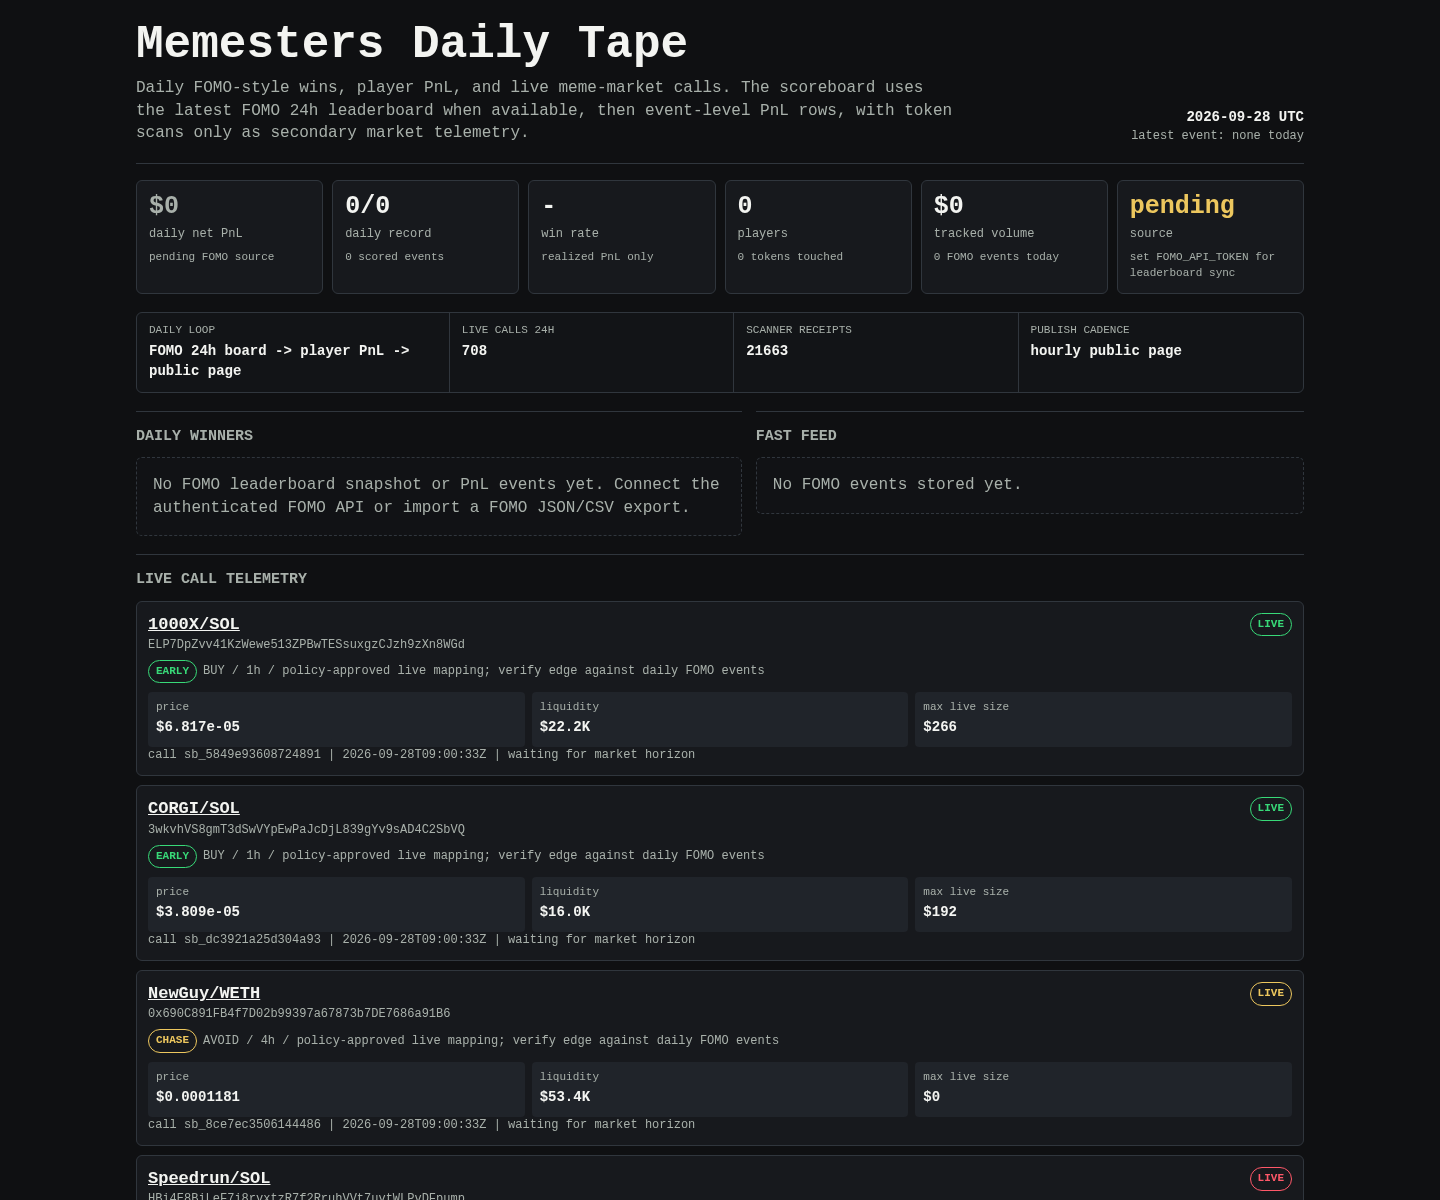
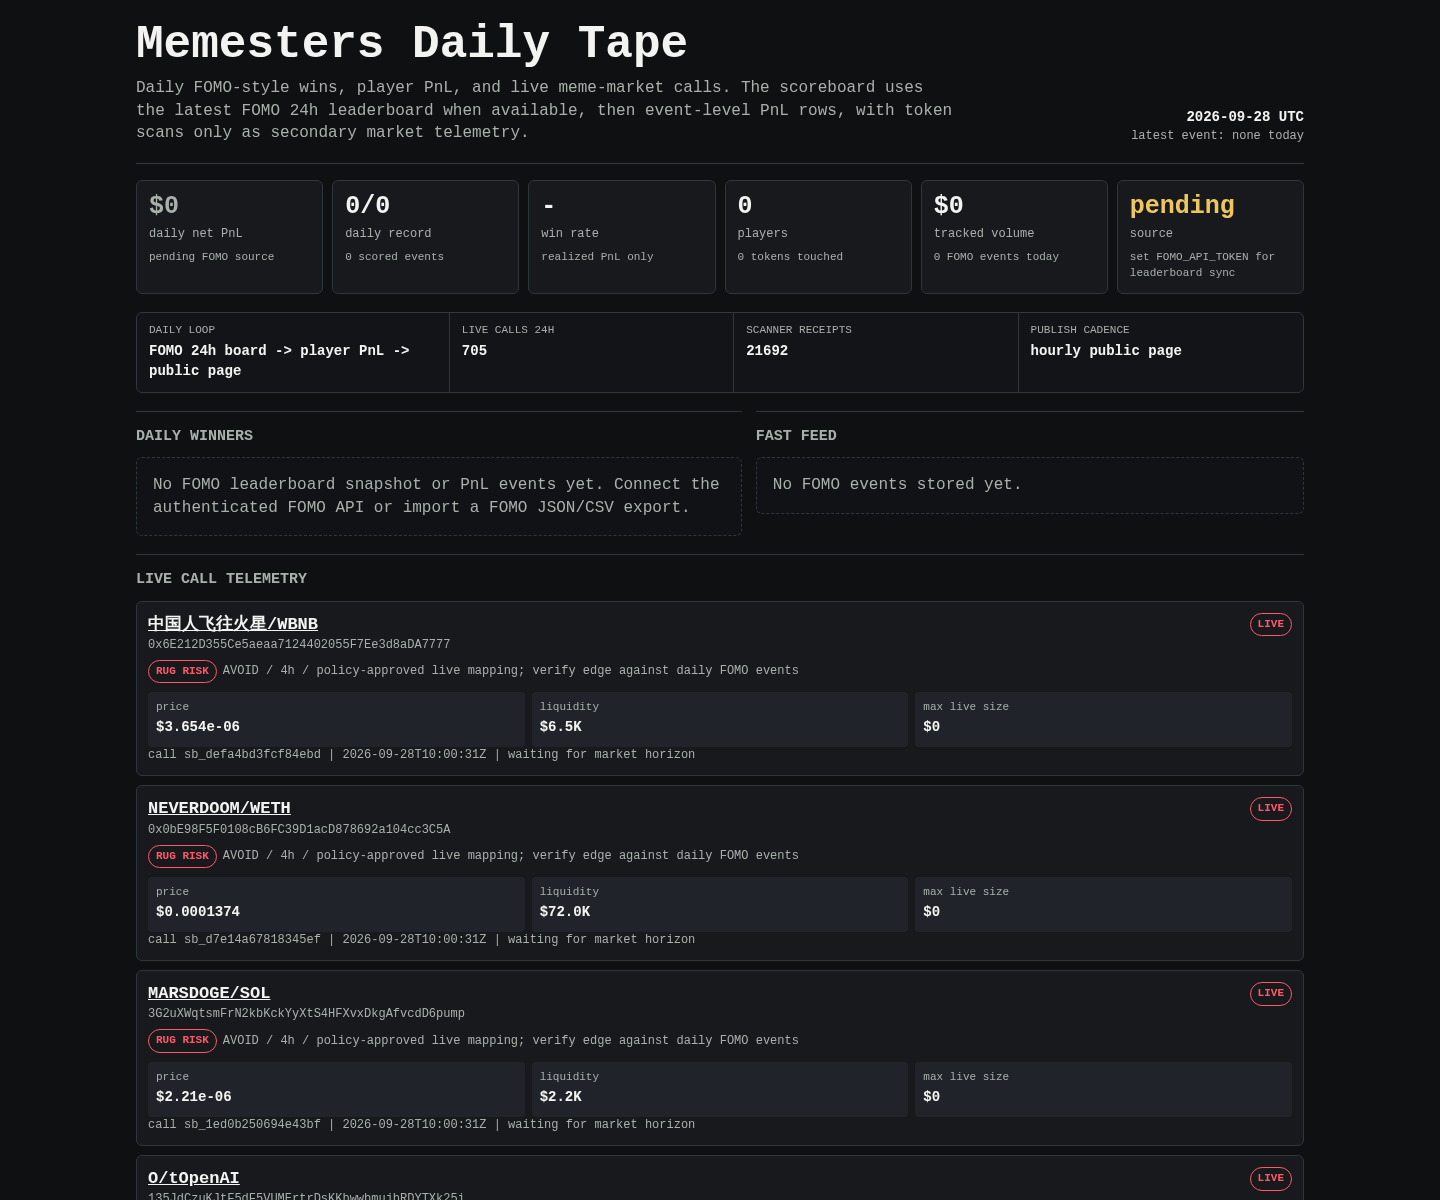
Update Memesters scoreboard

diff --git a/memesters/index.html b/memesters/index.html
@@ -149,8 +149,8 @@
 
     <div class="rail" aria-label="live operating loop">
       <div><span>daily loop</span><b>FOMO 24h board -> player PnL -> public page</b></div>
-      <div><span>live calls 24h</span><b>708</b></div>
-      <div><span>scanner receipts</span><b>21663</b></div>
+      <div><span>live calls 24h</span><b>705</b></div>
+      <div><span>scanner receipts</span><b>21692</b></div>
       <div><span>publish cadence</span><b>hourly public page</b></div>
     </div>
 
@@ -171,29 +171,92 @@
     <article class="receipt">
       <div class="receipt-head">
         <div>
-          <div class="pair"><a href="https://dexscreener.com/solana/7infgk8yqcei3nncvy8rgyvwrgb4ifgtutqfkddmpf9g">1000X/SOL</a></div>
-          <div class="addr">ELP7DpZvv41KzWewe513ZPBwTESsuxgzCJzh9zXn8WGd</div>
+          <div class="pair"><a href="https://dexscreener.com/bsc/0x90f70a63834f488f2f495e2bab244a03bbda12a1">中国人飞往火星/WBNB</a></div>
+          <div class="addr">0x6E212D355Ce5aeaa7124402055F7Ee3d8aDA7777</div>
           <div class="addr policy-line">
-            <span class="badge early">EARLY</span>
-            <span>BUY / 1h / policy-approved live mapping; verify edge against daily FOMO events</span>
+            <span class="badge rug-risk">RUG RISK</span>
+            <span>AVOID / 4h / policy-approved live mapping; verify edge against daily FOMO events</span>
           </div>
         </div>
-        <span class="badge early">LIVE</span>
+        <span class="badge rug-risk">LIVE</span>
       </div>
       <div class="receipt-grid">
-        <div class="kv"><span>price</span><b>$6.817e-05</b></div>
-        <div class="kv"><span>liquidity</span><b>$22.2K</b></div>
-        <div class="kv"><span>max live size</span><b>$266</b></div>
+        <div class="kv"><span>price</span><b>$3.654e-06</b></div>
+        <div class="kv"><span>liquidity</span><b>$6.5K</b></div>
+        <div class="kv"><span>max live size</span><b>$0</b></div>
       </div>
-      <div class="outcomes">call sb_5849e93608724891 | 2026-09-28T09:00:33Z | waiting for market horizon</div>
+      <div class="outcomes">call sb_defa4bd3fcf84ebd | 2026-09-28T10:00:31Z | waiting for market horizon</div>
     </article>
     
 
     <article class="receipt">
       <div class="receipt-head">
         <div>
-          <div class="pair"><a href="https://dexscreener.com/solana/2lmstzzjttyta4k6sdfvxr6evfrtfs5g8oo5elsh7yde">CORGI/SOL</a></div>
-          <div class="addr">3wkvhVS8gmT3dSwVYpEwPaJcDjL839gYv9sAD4C2SbVQ</div>
+          <div class="pair"><a href="https://dexscreener.com/robinhood/0x415868c3654fa4616aaa324231fdb77a21f2dabe">NEVERDOOM/WETH</a></div>
+          <div class="addr">0x0bE98F5F0108cB6FC39D1acD878692a104cc3C5A</div>
+          <div class="addr policy-line">
+            <span class="badge rug-risk">RUG RISK</span>
+            <span>AVOID / 4h / policy-approved live mapping; verify edge against daily FOMO events</span>
+          </div>
+        </div>
+        <span class="badge rug-risk">LIVE</span>
+      </div>
+      <div class="receipt-grid">
+        <div class="kv"><span>price</span><b>$0.0001374</b></div>
+        <div class="kv"><span>liquidity</span><b>$72.0K</b></div>
+        <div class="kv"><span>max live size</span><b>$0</b></div>
+      </div>
+      <div class="outcomes">call sb_d7e14a67818345ef | 2026-09-28T10:00:31Z | waiting for market horizon</div>
+    </article>
+    
+
+    <article class="receipt">
+      <div class="receipt-head">
+        <div>
+          <div class="pair"><a href="https://dexscreener.com/solana/e4ytrchxjtbqapy8pxu3sded3veya7anxckvqbez4vdg">MARSDOGE/SOL</a></div>
+          <div class="addr">3G2uXWqtsmFrN2kbKckYyXtS4HFXvxDkgAfvcdD6pump</div>
+          <div class="addr policy-line">
+            <span class="badge rug-risk">RUG RISK</span>
+            <span>AVOID / 4h / policy-approved live mapping; verify edge against daily FOMO events</span>
+          </div>
+        </div>
+        <span class="badge rug-risk">LIVE</span>
+      </div>
+      <div class="receipt-grid">
+        <div class="kv"><span>price</span><b>$2.21e-06</b></div>
+        <div class="kv"><span>liquidity</span><b>$2.2K</b></div>
+        <div class="kv"><span>max live size</span><b>$0</b></div>
+      </div>
+      <div class="outcomes">call sb_1ed0b250694e43bf | 2026-09-28T10:00:31Z | waiting for market horizon</div>
+    </article>
+    
+
+    <article class="receipt">
+      <div class="receipt-head">
+        <div>
+          <div class="pair"><a href="https://dexscreener.com/solana/2ccxqcqimysggtea3tgv8q2ujiwdanh7xjnhjirbrpeg">O/tOpenAI</a></div>
+          <div class="addr">135JdCzuKJtF5dF5VUMErtrDsKKbwwbmujbRDYTXk25i</div>
+          <div class="addr policy-line">
+            <span class="badge rug-risk">RUG RISK</span>
+            <span>AVOID / 4h / policy-approved live mapping; verify edge against daily FOMO events</span>
+          </div>
+        </div>
+        <span class="badge rug-risk">LIVE</span>
+      </div>
+      <div class="receipt-grid">
+        <div class="kv"><span>price</span><b>$3.61e-06</b></div>
+        <div class="kv"><span>liquidity</span><b>$5.6K</b></div>
+        <div class="kv"><span>max live size</span><b>$0</b></div>
+      </div>
+      <div class="outcomes">call sb_b9c3b10d0dd94d44 | 2026-09-28T10:00:31Z | waiting for market horizon</div>
+    </article>
+    
+
+    <article class="receipt">
+      <div class="receipt-head">
+        <div>
+          <div class="pair"><a href="https://dexscreener.com/solana/le9zr9xofniyw4xv2n3szzdenr68qgmnbhawku8kak7">o/tOpenAI</a></div>
+          <div class="addr">FPT65CmLh8gDJq6nZnpFMSQN7dkGBTchzypfeA4FPrFA</div>
           <div class="addr policy-line">
             <span class="badge early">EARLY</span>
             <span>BUY / 1h / policy-approved live mapping; verify edge against daily FOMO events</span>
@@ -202,11 +265,95 @@
         <span class="badge early">LIVE</span>
       </div>
       <div class="receipt-grid">
-        <div class="kv"><span>price</span><b>$3.809e-05</b></div>
-        <div class="kv"><span>liquidity</span><b>$16.0K</b></div>
-        <div class="kv"><span>max live size</span><b>$192</b></div>
+        <div class="kv"><span>price</span><b>$3.085e-05</b></div>
+        <div class="kv"><span>liquidity</span><b>$16.4K</b></div>
+        <div class="kv"><span>max live size</span><b>$197</b></div>
       </div>
-      <div class="outcomes">call sb_dc3921a25d304a93 | 2026-09-28T09:00:33Z | waiting for market horizon</div>
+      <div class="outcomes">call sb_fd5601d1fad442fa | 2026-09-28T10:00:31Z | waiting for market horizon</div>
+    </article>
+    
+
+    <article class="receipt">
+      <div class="receipt-head">
+        <div>
+          <div class="pair"><a href="https://dexscreener.com/robinhood/0x2478233bc3f3709b0185673e75e456cbd55e847c">Sillydog/WETH</a></div>
+          <div class="addr">0xf013879d37d283102c36ee6734C678CC9fC567F4</div>
+          <div class="addr policy-line">
+            <span class="badge chase">CHASE</span>
+            <span>AVOID / 4h / policy-approved live mapping; verify edge against daily FOMO events</span>
+          </div>
+        </div>
+        <span class="badge chase">LIVE</span>
+      </div>
+      <div class="receipt-grid">
+        <div class="kv"><span>price</span><b>$0.0002354</b></div>
+        <div class="kv"><span>liquidity</span><b>$93.9K</b></div>
+        <div class="kv"><span>max live size</span><b>$0</b></div>
+      </div>
+      <div class="outcomes">call sb_a5b56ba06cf74e42 | 2026-09-28T10:00:31Z | waiting for market horizon</div>
+    </article>
+    
+
+    <article class="receipt">
+      <div class="receipt-head">
+        <div>
+          <div class="pair"><a href="https://dexscreener.com/arc/0x2977af9b7bcc7799e66ddece2e40fb5c4fb29bf8d26ee35d7575bf0fa5d08c58">TROVE/USDC</a></div>
+          <div class="addr">0x0AcE28B6BD6571EB9209b166cBA5f6E257E7B2A9</div>
+          <div class="addr policy-line">
+            <span class="badge early">EARLY</span>
+            <span>BUY / 1h / policy-approved live mapping; verify edge against daily FOMO events</span>
+          </div>
+        </div>
+        <span class="badge early">LIVE</span>
+      </div>
+      <div class="receipt-grid">
+        <div class="kv"><span>price</span><b>$1.572e-05</b></div>
+        <div class="kv"><span>liquidity</span><b>$13.6K</b></div>
+        <div class="kv"><span>max live size</span><b>$163</b></div>
+      </div>
+      <div class="outcomes">call sb_5d4e250d99d14e04 | 2026-09-28T10:00:30Z | waiting for market horizon</div>
+    </article>
+    
+
+    <article class="receipt">
+      <div class="receipt-head">
+        <div>
+          <div class="pair"><a href="https://dexscreener.com/arc/0x9b1b97c596abbeeb563f07125d6f400a425d4935b056a0cc35e59c4c7c7e7b19">AOVI/USDC</a></div>
+          <div class="addr">0x352ccfD6e073a5104e3719Ec7A5b7D2f5D9Eafe3</div>
+          <div class="addr policy-line">
+            <span class="badge chase">CHASE</span>
+            <span>AVOID / 4h / policy-approved live mapping; verify edge against daily FOMO events</span>
+          </div>
+        </div>
+        <span class="badge chase">LIVE</span>
+      </div>
+      <div class="receipt-grid">
+        <div class="kv"><span>price</span><b>$1.497e-05</b></div>
+        <div class="kv"><span>liquidity</span><b>$9.8K</b></div>
+        <div class="kv"><span>max live size</span><b>$0</b></div>
+      </div>
+      <div class="outcomes">call sb_7002d0a76c3b4d5a | 2026-09-28T10:00:30Z | waiting for market horizon</div>
+    </article>
+    
+
+    <article class="receipt">
+      <div class="receipt-head">
+        <div>
+          <div class="pair"><a href="https://dexscreener.com/solana/bsgh1umymjymbydjkxjzarz9xytdtthwawqauzsaktpw">SHORK/SPYx</a></div>
+          <div class="addr">BH2PVkGqyQDUUpAB1pdk75Q2zLh4dyfbfUsXUDvBX2FL</div>
+          <div class="addr policy-line">
+            <span class="badge early">EARLY</span>
+            <span>BUY / 1h / policy-approved live mapping; verify edge against daily FOMO events</span>
+          </div>
+        </div>
+        <span class="badge early">LIVE</span>
+      </div>
+      <div class="receipt-grid">
+        <div class="kv"><span>price</span><b>$7.397e-05</b></div>
+        <div class="kv"><span>liquidity</span><b>$24.8K</b></div>
+        <div class="kv"><span>max live size</span><b>$77</b></div>
+      </div>
+      <div class="outcomes">call sb_906cf4ba831142cf | 2026-09-28T09:45:30Z | waiting for market horizon</div>
     </article>
     
 
@@ -223,158 +370,11 @@
         <span class="badge chase">LIVE</span>
       </div>
       <div class="receipt-grid">
-        <div class="kv"><span>price</span><b>$0.0001181</b></div>
-        <div class="kv"><span>liquidity</span><b>$53.4K</b></div>
+        <div class="kv"><span>price</span><b>$0.0001851</b></div>
+        <div class="kv"><span>liquidity</span><b>$68.7K</b></div>
         <div class="kv"><span>max live size</span><b>$0</b></div>
       </div>
-      <div class="outcomes">call sb_8ce7ec3506144486 | 2026-09-28T09:00:33Z | waiting for market horizon</div>
-    </article>
-    
-
-    <article class="receipt">
-      <div class="receipt-head">
-        <div>
-          <div class="pair"><a href="https://dexscreener.com/solana/hz7x32f1k1hagi6jtvbd9ypfv38ttupg6qf4hr7crfgs">Speedrun/SOL</a></div>
-          <div class="addr">HBi4E8BiLeF7i8rvxtzR7f2RruhVVt7uvtWLPvDFpump</div>
-          <div class="addr policy-line">
-            <span class="badge rug-risk">RUG RISK</span>
-            <span>AVOID / 4h / policy-approved live mapping; verify edge against daily FOMO events</span>
-          </div>
-        </div>
-        <span class="badge rug-risk">LIVE</span>
-      </div>
-      <div class="receipt-grid">
-        <div class="kv"><span>price</span><b>$1.484e-05</b></div>
-        <div class="kv"><span>liquidity</span><b>$9.1K</b></div>
-        <div class="kv"><span>max live size</span><b>$0</b></div>
-      </div>
-      <div class="outcomes">call sb_adcaaaddcfef418d | 2026-09-28T09:00:33Z | waiting for market horizon</div>
-    </article>
-    
-
-    <article class="receipt">
-      <div class="receipt-head">
-        <div>
-          <div class="pair"><a href="https://dexscreener.com/bsc/0xabf566d8ca128245568d984ccdb8dace37454de1">Cizzy/WBNB</a></div>
-          <div class="addr">0x91d22c1353d2b351a96fbB54C6F84e22f94Cf6ae</div>
-          <div class="addr policy-line">
-            <span class="badge rug-risk">RUG RISK</span>
-            <span>AVOID / 4h / policy-approved live mapping; verify edge against daily FOMO events</span>
-          </div>
-        </div>
-        <span class="badge rug-risk">LIVE</span>
-      </div>
-      <div class="receipt-grid">
-        <div class="kv"><span>price</span><b>$9.855e-06</b></div>
-        <div class="kv"><span>liquidity</span><b>$9.8K</b></div>
-        <div class="kv"><span>max live size</span><b>$0</b></div>
-      </div>
-      <div class="outcomes">call sb_ba10a6636f534b48 | 2026-09-28T08:45:30Z | waiting for market horizon</div>
-    </article>
-    
-
-    <article class="receipt">
-      <div class="receipt-head">
-        <div>
-          <div class="pair"><a href="https://dexscreener.com/solana/eny6mbpk9mk4jgqppjysfjkafnaqnredcqbsvfygzvjz">AXIOM/SOL</a></div>
-          <div class="addr">HPmrRWHrbwWVzJiQfnxgPSRDDkD6ShMLnEN6VuEzvyEV</div>
-          <div class="addr policy-line">
-            <span class="badge early">EARLY</span>
-            <span>BUY / 1h / policy-approved live mapping; verify edge against daily FOMO events</span>
-          </div>
-        </div>
-        <span class="badge early">LIVE</span>
-      </div>
-      <div class="receipt-grid">
-        <div class="kv"><span>price</span><b>$4.494e-05</b></div>
-        <div class="kv"><span>liquidity</span><b>$18.0K</b></div>
-        <div class="kv"><span>max live size</span><b>$216</b></div>
-      </div>
-      <div class="outcomes">call sb_1ec6c75e4ab541ff | 2026-09-28T08:45:30Z | waiting for market horizon</div>
-    </article>
-    
-
-    <article class="receipt">
-      <div class="receipt-head">
-        <div>
-          <div class="pair"><a href="https://dexscreener.com/arc/0x965b6e33cf844129aaad53d704974cc4c2c3789083d781703f5e06e5b5f26654">ARCLIGHT/USDC</a></div>
-          <div class="addr">0xc7522d55600202e556551C1Ec3521EAfb8ab87fa</div>
-          <div class="addr policy-line">
-            <span class="badge chase">CHASE</span>
-            <span>AVOID / 4h / policy-approved live mapping; verify edge against daily FOMO events</span>
-          </div>
-        </div>
-        <span class="badge chase">LIVE</span>
-      </div>
-      <div class="receipt-grid">
-        <div class="kv"><span>price</span><b>$0.0009225</b></div>
-        <div class="kv"><span>liquidity</span><b>$93.8K</b></div>
-        <div class="kv"><span>max live size</span><b>$0</b></div>
-      </div>
-      <div class="outcomes">call sb_c9d35d5019954eca | 2026-09-28T08:45:30Z | waiting for market horizon</div>
-    </article>
-    
-
-    <article class="receipt">
-      <div class="receipt-head">
-        <div>
-          <div class="pair"><a href="https://dexscreener.com/solana/7infgk8yqcei3nncvy8rgyvwrgb4ifgtutqfkddmpf9g">1000X/SOL</a></div>
-          <div class="addr">ELP7DpZvv41KzWewe513ZPBwTESsuxgzCJzh9zXn8WGd</div>
-          <div class="addr policy-line">
-            <span class="badge early">EARLY</span>
-            <span>BUY / 1h / policy-approved live mapping; verify edge against daily FOMO events</span>
-          </div>
-        </div>
-        <span class="badge early">LIVE</span>
-      </div>
-      <div class="receipt-grid">
-        <div class="kv"><span>price</span><b>$8.567e-05</b></div>
-        <div class="kv"><span>liquidity</span><b>$25.0K</b></div>
-        <div class="kv"><span>max live size</span><b>$300</b></div>
-      </div>
-      <div class="outcomes">call sb_f4ed0d58e2654609 | 2026-09-28T08:45:30Z | waiting for market horizon</div>
-    </article>
-    
-
-    <article class="receipt">
-      <div class="receipt-head">
-        <div>
-          <div class="pair"><a href="https://dexscreener.com/solana/2lmstzzjttyta4k6sdfvxr6evfrtfs5g8oo5elsh7yde">CORGI/SOL</a></div>
-          <div class="addr">3wkvhVS8gmT3dSwVYpEwPaJcDjL839gYv9sAD4C2SbVQ</div>
-          <div class="addr policy-line">
-            <span class="badge rug-risk">RUG RISK</span>
-            <span>AVOID / 4h / policy-approved live mapping; verify edge against daily FOMO events</span>
-          </div>
-        </div>
-        <span class="badge rug-risk">LIVE</span>
-      </div>
-      <div class="receipt-grid">
-        <div class="kv"><span>price</span><b>$7.313e-05</b></div>
-        <div class="kv"><span>liquidity</span><b>$22.9K</b></div>
-        <div class="kv"><span>max live size</span><b>$0</b></div>
-      </div>
-      <div class="outcomes">call sb_4b01b092ddd44ac0 | 2026-09-28T08:45:30Z | waiting for market horizon</div>
-    </article>
-    
-
-    <article class="receipt">
-      <div class="receipt-head">
-        <div>
-          <div class="pair"><a href="https://dexscreener.com/robinhood/0x8e2d426f06121e4431f1bffdd3094799db012f3d073581116d4f7a34374d8b8b">$THRONE/USDG</a></div>
-          <div class="addr">0x2919C789720e77C587FABC1158e43cc5a60414ae</div>
-          <div class="addr policy-line">
-            <span class="badge chase">CHASE</span>
-            <span>AVOID / 4h / policy-approved live mapping; verify edge against daily FOMO events</span>
-          </div>
-        </div>
-        <span class="badge chase">LIVE</span>
-      </div>
-      <div class="receipt-grid">
-        <div class="kv"><span>price</span><b>$8.973e-05</b></div>
-        <div class="kv"><span>liquidity</span><b>$24.3K</b></div>
-        <div class="kv"><span>max live size</span><b>$0</b></div>
-      </div>
-      <div class="outcomes">call sb_bca46eef0ea44cb3 | 2026-09-28T08:30:29Z | <span class="positive">15m -53.8% / +$54 if followed</span></div>
+      <div class="outcomes">call sb_bf7e118ed57244be | 2026-09-28T09:45:30Z | waiting for market horizon</div>
     </article>
     
     </section>
